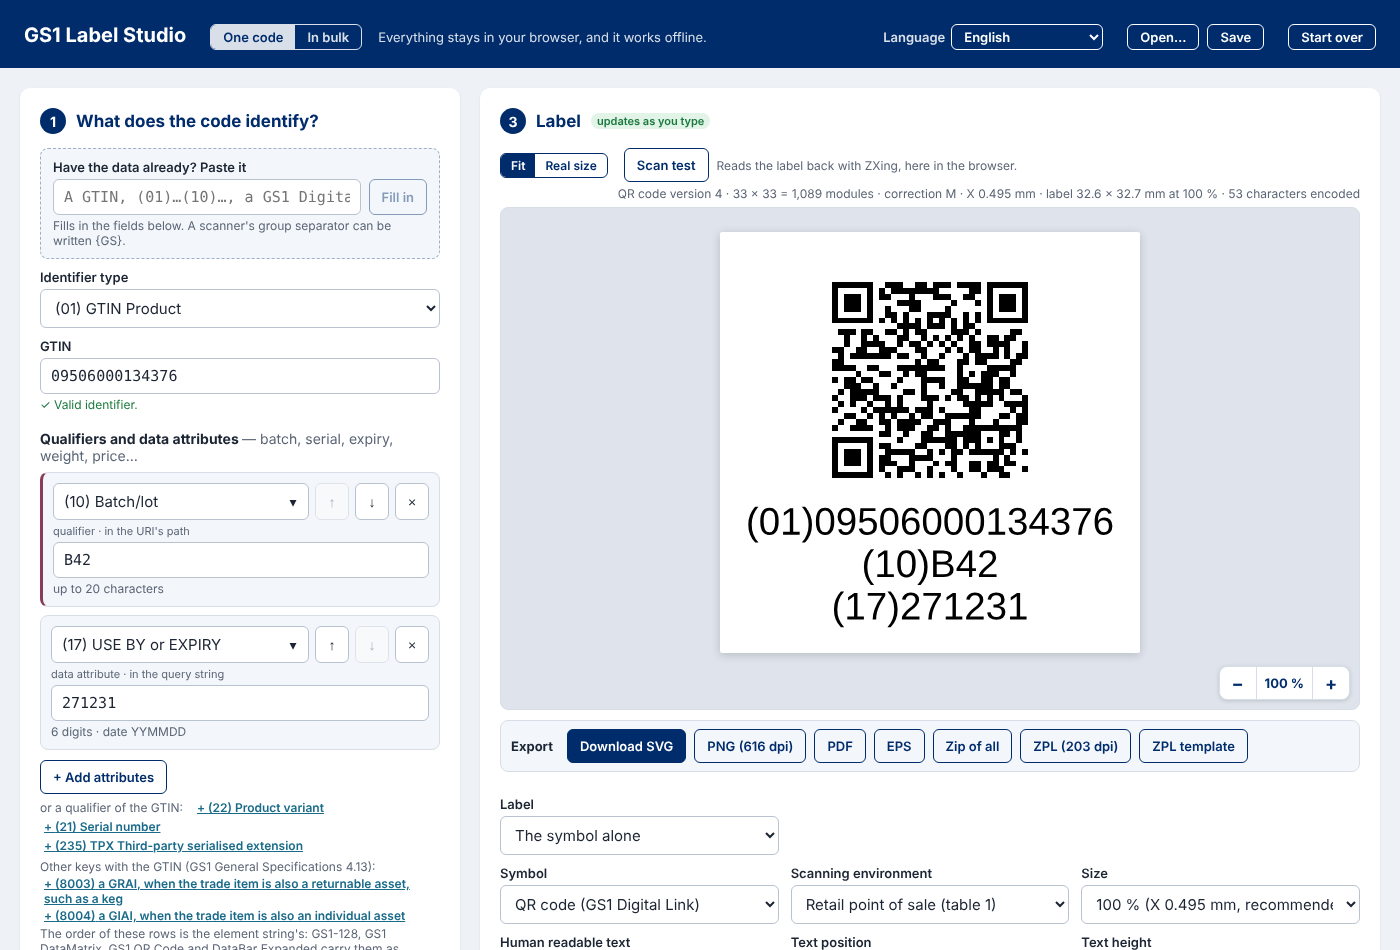
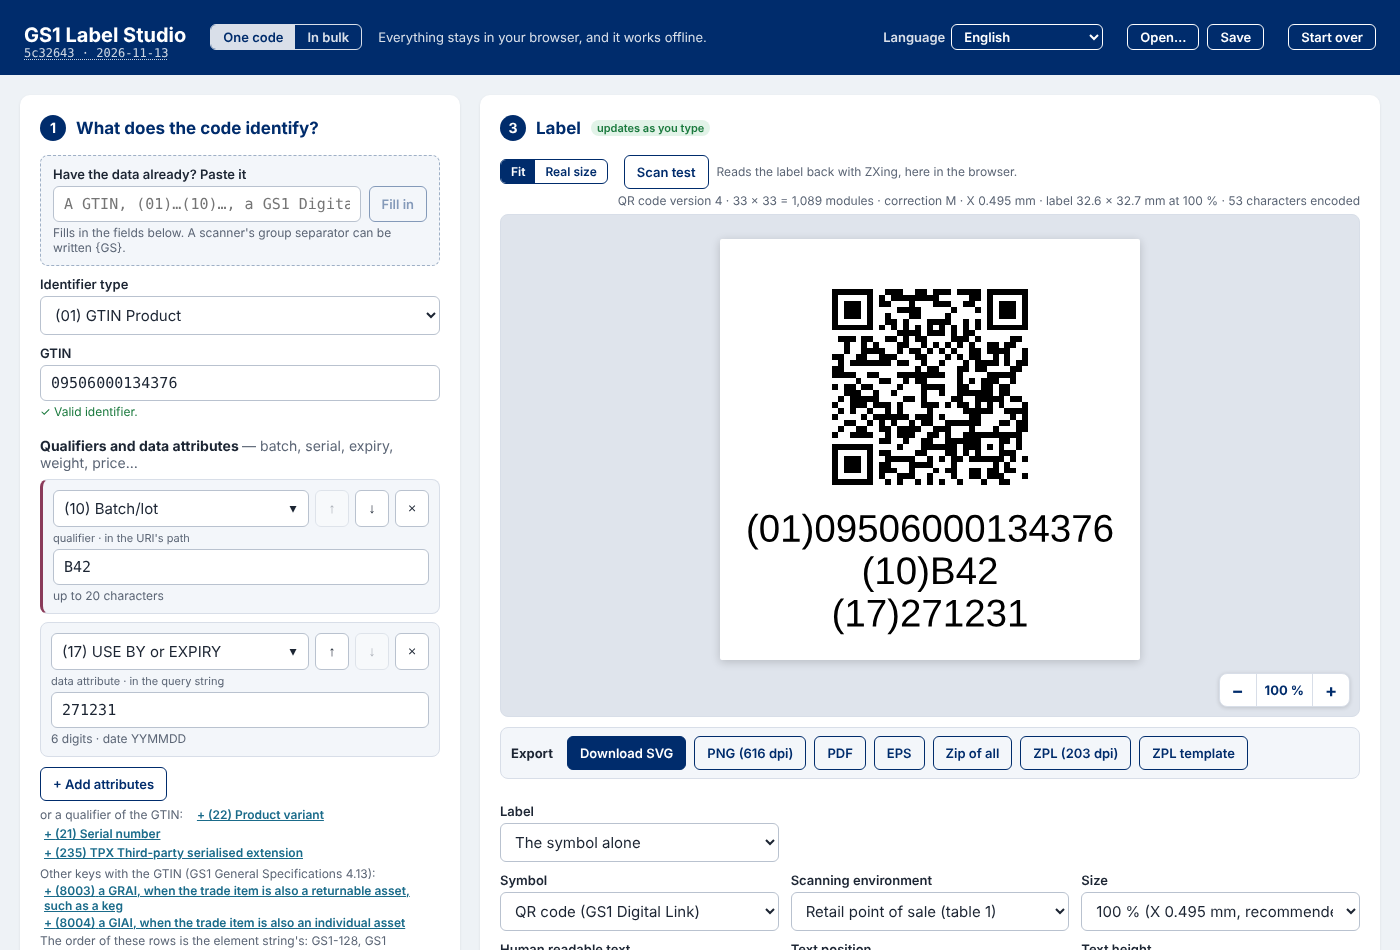
web, docs: the version in the header, and new versions found by themselves (6.1)
The owner's review of 11 November: the version should be seen without scrolling to About, and an installed app should
find a new release by itself. The service worker already takes over at once (skipWaiting, clients.claim), but a page
already open keeps the release it was loaded with, above all an installed app brought back from the background.

The commit and its date are now under the name, linking to About (mock-up A of two; B put them beside the name as a
badge, which crowded a phone's header). update.ts registers the worker, asks for a new one whenever the page comes back
to the screen (the browser checks at each registration, on opening), and, when a new worker takes over a page that
already had one, a bar under the header offers Reload, or × to leave it for the next visit. A first visit's worker
also takes over the page but is no new release. Reloading loses nothing: the work in progress is offered back.

Tests: layouts 'the version under the name, the same as About's, links to About' (three devices: the phone opens More)
and 'a new version found by itself is offered as a reload that loses nothing' (desktop: no bar for the first worker,
an update asked for on visibilitychange, Later, Reload offering the last work back). Five browser mutations caught (a
first worker taken for a release, the bar shown again after Later, no check on return, the link not to About, Later
inert). Three texts in the five catalogues.
[…]

diff --git a/apps/web/e2e/layouts.spec.ts b/apps/web/e2e/layouts.spec.ts
@@ -170,3 +170,54 @@ test("an iPhone is told to install from Share, Add to Home Screen; the name on t
   expect([manifest.name, manifest.short_name]).toEqual(["GS1 Label Studio", "GS1 Label Studio"]);
   await context.close();
 });
+
+// Backlog 6.1, mock-up A of two (13 November 2026): the version under the name, linking to About, on every device.
+test("the version under the name, the same as About's, links to About", async ({ page }, info) => {
+  const version = page.locator("header.top .version");
+  await expect(version).toBeVisible();
+  await expect(version).toHaveText(/^[0-9a-f]{7,} · \d{4}-\d{2}-\d{2}$/);
+  const about = page.locator("footer.about");
+  const commit = (await version.textContent())!.split(" · ")[0]!;
+  await expect(about.locator("a.mono")).toHaveText(commit);
+  await expect(about).toContainText(`${commit} · ${(await version.textContent())!.split(" · ")[1]}`);
+  await version.click();
+  await expect(about.getByRole("heading", { name: "About GS1 Label Studio" })).toBeInViewport();
+  if (info.project.name === "phone") await expect(tabs(page).getByRole("button", { name: "More" })).toHaveAttribute("aria-current", "page");
+});
+
+// Backlog 6.1: a new release found by itself. The page asks for a new service worker whenever it comes back to the
+// screen; a new worker taking over a page that already had one is a new release, offered in a bar as a reload, which
+// loses nothing (the last work is offered on the next visit). A first visit's worker takes over too, but is no release.
+test("a new version found by itself is offered as a reload that loses nothing; a first visit's worker is not", async ({ page }, info) => {
+  test.skip(info.project.name !== "desktop");
+  const bar = page.getByRole("status").filter({ hasText: "A new version of GS1 Label Studio is ready." });
+  // The first visit's worker takes the page over: no new version
+  await page.waitForFunction(() => navigator.serviceWorker.controller !== null);
+  await expect(bar).toHaveCount(0);
+  // Back on the screen, the page asks for a new worker
+  await page.evaluate(() => {
+    const w = window as unknown as { asked: number };
+    w.asked = 0;
+    ServiceWorkerRegistration.prototype.update = async function () { w.asked++; return this; };
+    document.dispatchEvent(new Event("visibilitychange"));
+  });
+  expect(await page.evaluate(() => (window as unknown as { asked: number }).asked)).toBe(1);
+  // A new worker takes over the page: a new release, put off with Later until the next visit
+  await page.evaluate(() => navigator.serviceWorker.dispatchEvent(new Event("controllerchange")));
+  await expect(bar).toBeVisible();
+  await bar.getByRole("button", { name: "Later" }).click();
+  await expect(bar).toHaveCount(0);
+  await page.evaluate(() => navigator.serviceWorker.dispatchEvent(new Event("controllerchange")));
+  await expect(bar).toHaveCount(0);
+
+  // On the next visit, work typed and then a new release: Reload brings the new page and offers the work back
+  await page.reload();
+  await expect(page.locator(".preview .symbol svg")).toBeAttached();
+  await page.fill("#paste", "(01)09506000134352(10)LOT9");
+  await page.getByRole("button", { name: "Fill in" }).click();
+  await page.waitForTimeout(800);
+  await page.evaluate(() => navigator.serviceWorker.dispatchEvent(new Event("controllerchange")));
+  await bar.getByRole("button", { name: "Reload" }).click();
+  await expect(page.getByRole("region", { name: "Your last work" })).toContainText("(01) 09506000134352");
+  await expect(bar).toHaveCount(0);
+});

diff --git a/apps/web/src/App.tsx b/apps/web/src/App.tsx
@@ -84,7 +84,7 @@ import {
   type Work,
 } from "@gs1-label-studio/core";
 import fontUrl from "@gs1-label-studio/core/assets/fonts/LiberationSans-Regular.ttf?url";
-import { About } from "./About.tsx";
+import { About, buildDate } from "./About.tsx";
 import { BulkCard } from "./BulkCard.tsx";
 import { EpcSection } from "./EpcSection.tsx";
 import { SignSection } from "./SignSection.tsx";
@@ -102,6 +102,7 @@ import { chosen, ScanCard, type Choice } from "./ScanCard.tsx";
 import { BULK_TEXTS, GUIDE_TEXTS } from "./texts.ts";
 import { TabBar } from "./TabBar.tsx";
 import { InstallApp } from "./InstallApp.tsx";
+import { onUpdateReady, updateReady } from "./update.ts";
 import { paneOf, PHONE_QUERY, TABLET_QUERY, useMedia, type Pane } from "./layout.ts";
 import { LOCALES, locale, t, tm, formatNumber, type Locale } from "./i18n.ts";
 
@@ -566,6 +567,9 @@ export function App({ onStartOver, onLocale }: { locale?: Locale; onStartOver?: 
   const tablet = useMedia(TABLET_QUERY);
   const tabbed = phone || tablet;
   const [tab, setTab] = useState<Pane>("data");
+  // A new release ready (backlog 6.1, update.ts): offered as a reload, or put off until the next visit
+  const [update, setUpdate] = useState(updateReady);
+  useEffect(() => onUpdateReady(() => setUpdate(true)), []);
   const scrolled = useRef<Partial<Record<Pane, number>>>({});
   const goTo = useRef<string | null>(null);
   function showPane(next: Pane, target?: string) {
@@ -755,7 +759,15 @@ export function App({ onStartOver, onLocale }: { locale?: Locale; onStartOver?: 
   return (
     <div className="app" data-tab={tab}>
       <header className="top">
-        <h1>GS1 Label Studio</h1>
+        {/* The version under the name (backlog 6.1, mock-up A of two), linking to About, which says more */}
+        <span className="brand">
+          <h1>GS1 Label Studio</h1>
+          {__BUILD__.commit && (
+            <a className="version mono" href="#about-title" title={t("Version")}>
+              {buildDate() ? `${__BUILD__.commit} · ${buildDate()}` : __BUILD__.commit}
+            </a>
+          )}
+        </span>
         <span className="mode" role="group" aria-label={t("Mode")}>
           <button type="button" aria-pressed={!bulk} onClick={() => setMode("one")}>
             {t("One code")}
@@ -771,6 +783,17 @@ export function App({ onStartOver, onLocale }: { locale?: Locale; onStartOver?: 
         {!phone && workButtons}
         {!phone && startOver}
       </header>
+      {update && (
+        <div className="update-ready" role="status">
+          <span>{t("A new version of GS1 Label Studio is ready.")}</span>
+          <button type="button" className="btn primary" onClick={() => window.location.reload()}>
+            {t("Reload")}
+          </button>
+          <button type="button" className="close" aria-label={t("Later")} title={t("Later")} onClick={() => setUpdate(false)}>
+            ×
+          </button>
+        </div>
+      )}
       {offer && offer !== "reading" && (
         <div className="kept-work" role="region" aria-label={t("Your last work")}>
           <span>

diff --git a/apps/web/src/update.ts b/apps/web/src/update.ts
@@ -1,0 +1,42 @@
+// New versions found by themselves (backlog 6.1). The service worker (offline.ts) installs a new release and takes
+// over at once (`skipWaiting`, `clients.claim`), but a page already open — above all an installed app brought back
+// from the background — keeps the release it was loaded with. So the page asks for a new worker when it opens (the
+// browser checks the worker's file at each registration) and whenever it comes back to the screen; when a new worker
+// takes over a page that already had one, a new release is there, and the page offers to reload (App.tsx's bar).
+// Reloading loses nothing: the work in progress is kept for the next visit (lastwork.ts). A first visit's worker also
+// takes over the page, but that is no new release.
+
+let ready = false;
+const listeners = new Set<() => void>();
+
+/** Whether a new release has taken over this page since it was loaded. */
+export function updateReady(): boolean {
+  return ready;
+}
+
+/** Calls `listener` when a new release is ready; returns the function that stops it. */
+export function onUpdateReady(listener: () => void): () => void {
+  listeners.add(listener);
+  return () => listeners.delete(listener);
+}
+
+/** Registers the service worker at `url` and watches for new releases. */
+export function watchUpdates(url: string, container: ServiceWorkerContainer = navigator.serviceWorker, doc: Document = document): void {
+  let controlled = container.controller !== null;
+  container.addEventListener("controllerchange", () => {
+    if (controlled && !ready) {
+      ready = true;
+      listeners.forEach((listener) => listener());
+    }
+    controlled = true;
+  });
+  container
+    .register(url)
+    .then((registration) => {
+      const check = () => registration.update().catch(() => undefined); // offline: asked again on the next return
+      doc.addEventListener("visibilitychange", () => {
+        if (doc.visibilityState === "visible") void check();
+      });
+    })
+    .catch((error: unknown) => console.warn(error));
+}

diff --git a/apps/web/src/styles.css b/apps/web/src/styles.css
@@ -44,6 +44,14 @@ body { margin: 0; background: var(--bg); color: var(--ink); font-size: 15px; }
 header.top { background: #002c6c; color: #fff; padding: 14px 24px; display: flex; align-items: baseline; gap: 16px; flex-wrap: wrap; }
 header.top h1 { margin: 0; font-size: 20px; }
 header.top span { opacity: 0.85; font-size: 13px; }
+/* The version under the name (backlog 6.1) */
+header.top .brand { display: inline-flex; flex-direction: column; line-height: 1.15; opacity: 1; }
+header.top .version { color: #fff; opacity: 0.8; font-size: 12px; text-decoration: underline dotted; text-underline-offset: 2px; align-self: flex-start; }
+header.top .version:hover, header.top .version:focus-visible { opacity: 1; }
+/* A new release ready (backlog 6.1): a bar under the header, the page left as it is until Reload */
+.update-ready { display: flex; align-items: center; justify-content: center; gap: 12px; padding: 8px 16px; background: #fff4cc; border-bottom: 1px solid #e0c060; color: #1a1a1a; font-size: 14px; }
+.update-ready span { overflow-wrap: anywhere; }
+.update-ready .close { border: 0; background: transparent; color: inherit; font: inherit; font-size: 18px; line-height: 1; cursor: pointer; padding: 2px 6px; }
 main.editor { display: grid; grid-template-columns: minmax(340px, 440px) 1fr; gap: 20px; padding: 20px; align-items: start; } /* the whole width (1.10 a) */
 .card { background: var(--card); border-radius: 10px; box-shadow: 0 1px 3px rgba(0, 0, 0, 0.08); padding: 20px; min-width: 0; }
 h2 { font-size: 17px; color: var(--navy); margin: 0 0 14px; display: flex; gap: 10px; align-items: center; flex-wrap: wrap; }

diff --git a/apps/web/src/main.tsx b/apps/web/src/main.tsx
@@ -4,11 +4,11 @@ import { App } from "./App.tsx";
 import { initialLocale, setLocale, type Locale } from "./i18n.ts";
 import "./install.ts"; // catches the browser's install offer before the page is drawn
 import "./styles.css";
+import { watchUpdates } from "./update.ts";
 
-// Offline (backlog 1.7): the service worker the build writes (offline.ts) keeps every file of the application.
-if ("serviceWorker" in navigator && import.meta.env.PROD) {
-  navigator.serviceWorker.register(`${import.meta.env.BASE_URL}sw.js`).catch((error: unknown) => console.warn(error));
-}
+// Offline (backlog 1.7): the service worker the build writes (offline.ts) keeps every file of the application; a new
+// release it installs is offered as a reload (backlog 6.1, update.ts).
+if ("serviceWorker" in navigator && import.meta.env.PROD) watchUpdates(`${import.meta.env.BASE_URL}sw.js`);
 
 // "Start over" (the owner, 30 October 2026): a new App, as on a first visit; what this browser keeps (the screen's
 // calibration, the columns of known files, the GCP table) stays; the last work kept for the next visit is forgotten.

diff --git a/apps/web/src/About.tsx b/apps/web/src/About.tsx
@@ -21,8 +21,13 @@ export const MADE_WITH: readonly { name: string; url: string; licence: string; u
   { name: "Liberation Sans", url: "https://github.com/liberationfonts/liberation-fonts", licence: "SIL Open Font License 1.1", use: en("the human readable text's font") },
 ];
 
+/** The day of the commit the build was made from, as 2026-11-13 ("" outside a Git checkout); in About and the header. */
+export function buildDate(): string {
+  return __BUILD__.date ? new Date(__BUILD__.date).toISOString().slice(0, 10) : "";
+}
+
 export function About() {
-  const date = __BUILD__.date ? new Date(__BUILD__.date).toISOString().slice(0, 10) : "";
+  const date = buildDate();
   return (
     <footer className="about" data-pane="more" aria-labelledby="about-title">
       <h2 id="about-title">{t("About GS1 Label Studio")}</h2>

diff --git a/docs/test-inventory.md b/docs/test-inventory.md
@@ -1,6 +1,6 @@
 # Inventory of features from the tests
 
-Every test of the core's suite, of the web application's unit tests and of the editor's browser tests on 2026-11-10: 1,168 tests in 47 files. Each line is a test's name, a sentence that says what is true when it passes; together they say what the studio does and that it works. Each feature of [features.md](features.md) names the tests that prove it. Generated by `node scripts/inventory.mjs` from a complete run of the core's tests and the list of the browser tests ([ADR 0005](adr/0005-documentation-and-feature-inventory.md)); do not edit by hand.
+Every test of the core's suite, of the web application's unit tests and of the editor's browser tests on 2026-11-13: 1,170 tests in 47 files. Each line is a test's name, a sentence that says what is true when it passes; together they say what the studio does and that it works. Each feature of [features.md](features.md) names the tests that prove it. Generated by `node scripts/inventory.mjs` from a complete run of the core's tests and the list of the browser tests ([ADR 0005](adr/0005-documentation-and-feature-inventory.md)); do not edit by hand.
 
 Every unit test ran and passed in the run that wrote this file, the ZPL printed by Labelary included (`LABELARY=1`), but the documents' own test (`docs`), which checks this file and runs right after it is written. The browser tests are listed by Playwright and run by CI against the built application, on a desktop, a phone and a tablet held horizontally (a test about one layout is skipped in the others).
 
@@ -16,7 +16,7 @@ Every unit test ran and passed in the run that wrote this file, the ZPL printed 
 | [The work saved on one's own computer and opened again](#the-work-saved-on-ones-own-computer-and-opened-again) | `lastwork`, `opened`, `work` | 9 |
 | [The interface's languages: English, Brazilian Portuguese, Spanish, French, German, Italian](#the-interfaces-languages-english-brazilian-portuguese-spanish-french-german-italian) | `i18n` | 15 |
 | [The documents](#the-documents) | `docs` | 7 |
-| [The editor in the browser (Playwright, desktop, phone and tablet)](#the-editor-in-the-browser-playwright-desktop-phone-and-tablet) | `editor`, `layouts` | 98 |
+| [The editor in the browser (Playwright, desktop, phone and tablet)](#the-editor-in-the-browser-playwright-desktop-phone-and-tablet) | `editor`, `layouts` | 100 |
 
 ## Input and identification: the Syntax Engine, keys, qualifiers, attributes
 
@@ -1431,7 +1431,7 @@ Every unit test ran and passed in the run that wrote this file, the ZPL printed 
 
 </details>
 
-<details><summary><code>layouts</code> — 7 tests (<code>apps/web/e2e/layouts.spec.ts</code>)</summary>
+<details><summary><code>layouts</code> — 9 tests (<code>apps/web/e2e/layouts.spec.ts</code>)</summary>
 
 - a computer shows every step at once, without the destinations' bar
 - a phone shows one destination at a time, chosen in the tab bar at the bottom
@@ -1440,5 +1440,7 @@ Every unit test ran and passed in the run that wrote this file, the ZPL printed 
 - About: the repository, the licence, the version and the software it is made with, each with its repository
 - More offers to install the studio: the browser's dialog where it has one, otherwise how
 - an iPhone is told to install from Share, Add to Home Screen; the name on the home screen is GS1 Label Studio
+- the version under the name, the same as About's, links to About
+- a new version found by itself is offered as a reload that loses nothing; a first visit's worker is not
 
 </details>

diff --git a/docs/features.md b/docs/features.md
@@ -251,6 +251,8 @@ Which standard each follows: [conformance](conformance.md).
 | A computer, a phone, a tablet | On a computer the steps on the left and the label beside them, the whole width. On a phone (and a tablet held upright) one column and one destination at a time — Data, Scan, Label, Export, More — chosen in a tab bar at the bottom, a live preview at the top that opens the label. On a tablet held horizontally a navigation rail, the destination on the left and the label always on the right. The same page, so what is typed stays when the device is turned (backlog 1.21) | `87a745d`, `9aa4493`, `04f2a1c` | `layouts`: a computer shows every step at once · `layouts`: a phone shows one destination at a time · `layouts`: a tablet held horizontally · `editor`: the page fits the screen's width |
 | Destinations that remember | Each destination keeps where it was scrolled to; a link to a part of another one opens it; a dot on a tab whose destination has an error | `04f2a1c` | `layouts`: on a phone each destination keeps where it was scrolled to |
 | Install the app | Under More on a phone or a tablet: the browser's install dialog (Chrome, Edge, Samsung Internet), how to do it on an iPhone or iPad, or that it is installed; the home screen's name is GS1 Label Studio | `fdb2c18` | `layouts`: More offers to install the studio · `layouts`: an iPhone is told to install from Share |
+| The version in the header | Under the name, the commit the page was built from and its date, linking to About (mock-up A of two, backlog 6.1) | — | `layouts`: the version under the name, the same as About's |
+| A new version found by itself | The page asks for a new release when it opens and whenever it comes back to the screen (an installed app brought back from the background included); when one has taken over, a bar under the header, *A new version of GS1 Label Studio is ready — Reload*, or × to leave it for the next visit; the work in progress offered back after the reload (backlog 6.1) | — | `layouts`: a new version found by itself is offered as a reload |
 | About | At the foot of the page (in More on a phone): the repository, the Apache 2.0 licence, the manuals, the version published, and the software it is made with, each linked to its repository | `04f2a1c` | `layouts`: About: the repository, the licence, the version |
 | One code or in bulk | A mode of the editor; steps 2 and 3 shared | `0911949` | `editor`: in bulk: pasted rows |
 | Start over | Clears the data and every choice, as on a first visit; on a phone a round reload icon beside the live preview | `b8caad3`, `fdb2c18` | `editor`: Start over clears the data · `layouts`: a phone shows one destination at a time |

diff --git a/docs/user-guide.md b/docs/user-guide.md
@@ -62,7 +62,8 @@ English.
 
 ![The editor: what the code identifies on the left, the label on the right](images/guide/editor.png)
 
-- The header: **One code** or **In bulk** (section 13), **Language**, **Open…** and **Save** (the work kept as a file
+- The header: the name, with the version under it (the commit the page was built from and its date, which opens
+  About), **One code** or **In bulk** (section 13), **Language**, **Open…** and **Save** (the work kept as a file
   on your computer, section 8), and **Start over**, which clears every field and choice as on a first visit (on a
   phone, Language, Open… and Save are under **More** and Start over is a round icon beside the live preview).
 - **1 — What does the code identify?** The key, its qualifiers and data attributes, and the GS1 Digital Link URI's own
@@ -78,6 +79,11 @@ commit it was built from, with its date — the way to tell whether the page sho
 is made with, each linked to its repository; the GS1 Barcode Syntax Engine with the release that checks the data and the
 date of its GS1 Barcode Syntax Dictionary (*GS1 Barcode Syntax Engine 1.4.1 — … · GS1 Barcode Syntax Dictionary of
 2026-01-27*).
+
+**A new version.** The page looks for a new release when it opens and whenever it comes back to the screen — an
+installed app brought back from the background included. When one is ready, a bar under the header says *A new version
+of GS1 Label Studio is ready*: **Reload** opens it, and the work in progress is offered back (*Your last work … is kept
+in this browser — Continue it*); × leaves it for the next visit. Nothing is redrawn unasked.
 
 ### On a phone
 

diff --git a/CHANGELOG.md b/CHANGELOG.md
@@ -393,6 +393,11 @@
   option's full text under them, the arrow keys moving the choice. Sliders, the request, were assessed and left out:
   they suit an ordered scale of evenly spaced values only, the sizes (80 to 200 %) and text heights are not evenly
   spaced and change with the table, and the categorical choices have no order; the longer lists stay lists.
+- The version in the header, and new versions found by themselves (13 November; the owner's review of 11 November,
+  backlog 6.1, mock-up A of two): the commit and its date under the name, linking to About. The page asks for a new
+  release when it opens and whenever it comes back to the screen, so an installed app brought back from the background
+  finds it too; a bar then offers *Reload*, the work in progress offered back afterwards, or × to leave it for the next
+  visit.
 - Documentation brought up to date (8 November): the README's languages badge (six), test count, status, a tour stop
   for the designer and the GS1 Logistic Label, where the backlog stands, item 4.2 as dated sub-items, the development
   commands and workflows; the history from session 10 to 44; the documents' index, the user guide's summary,

diff --git a/README.md b/README.md
@@ -644,7 +644,9 @@ usability study 6.3 as mock-ups for the owner, then PPLA and PPLB (3.4, 3.5: the
 11 November) while the owner looks at them, then 6.4 to 6.6 as the study decides, 6.7 after an assessment; 6.8 left for
 now. Effort: S a session, M two or three, L more.
 
-- 6.1 The version in the header, and new versions found by themselves (S). Under *GS1 Label Studio*, the commit and its
+- 6.1 The version in the header, and new versions found by themselves (S) — *done 13 November: the commit and its
+  date under the name, linking to About (mock-up A of two: B put them beside the name as a badge); a new release asked
+  for when the page opens and when it comes back to the screen, then offered in a bar, Reload or × for later*. Under *GS1 Label Studio*, the commit and its
   date (About already has them), linking to About. The service worker already fetches pages from the network first
   and takes over at once (`skipWaiting`, `clients.claim`), but an installed app brought back from the background keeps
   the page it had: the page will ask for a new worker when it opens and whenever it comes back to the screen, and

diff --git a/docs/history.md b/docs/history.md
@@ -380,3 +380,9 @@ on Escape when opened from its arrow, a chosen name edited anywhere, a qualifier
 and a request to put sliders in place of the short lists among the label's options. Mock-ups of both showed sliders
 cutting the options' names and implying an order the categorical choices do not have; the three choices of two to four
 short options became rows of buttons instead, the longer ones staying lists.
+
+On 11 November the owner reviewed the studio in twelve points, put in the backlog as phase 6. On 13 November, with the
+Drive's connectors down, the session took phase 6's recommended order from the backlog: first the version under the
+name, linking to About, and new releases found by themselves — an installed app brought back from the background had
+kept the page it was opened with, since a service worker that takes over at once does not reload a page already open.
+The page now asks for a new worker when it comes back to the screen and offers a reload when one has taken over.
